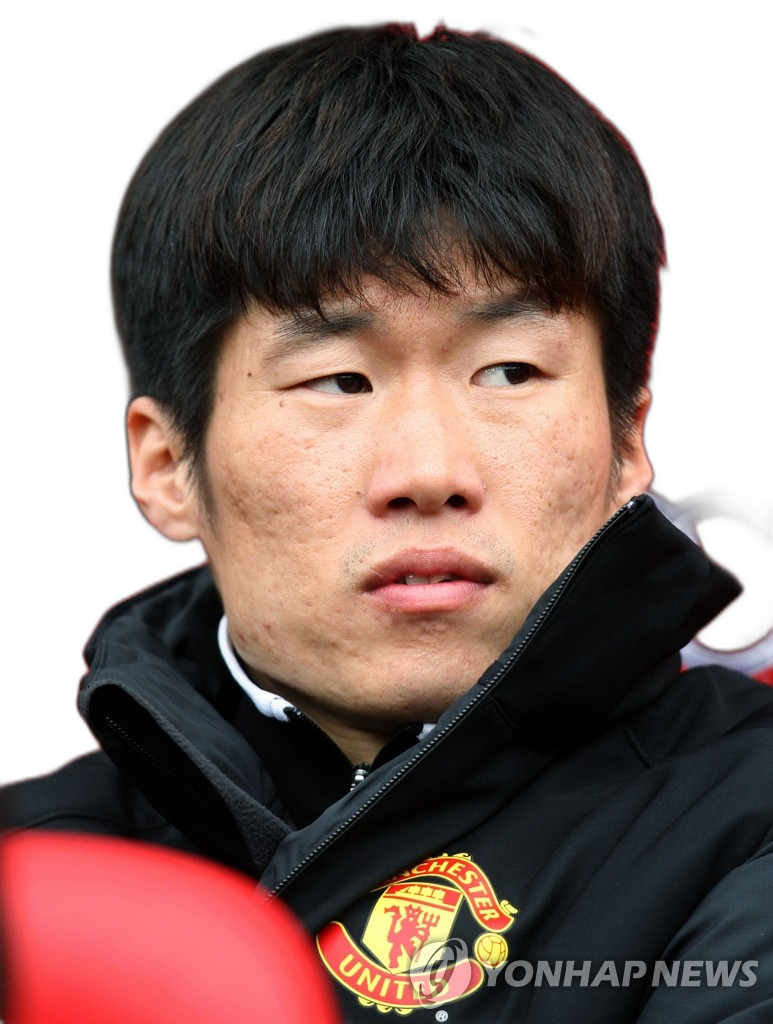
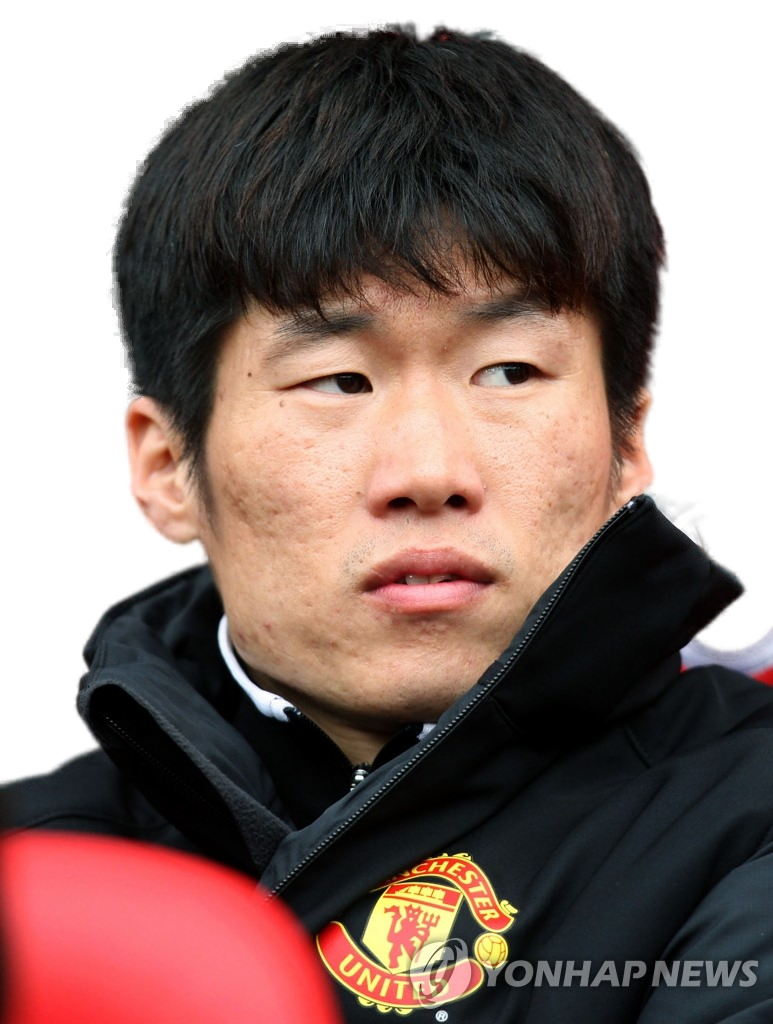
[FEAT] background blending with laplcain pyramid

diff --git a/remove_background.py b/remove_background.py
@@ -3,27 +3,80 @@ import cv2
 import numpy as np
 from rembg import remove
 
-def fill_background(image : np.ndarray, background: np.ndarray, mask: np.ndarray, mask_threshold : int) -> np.ndarray:
+def naive_interpolation(image : np.ndarray, background: np.ndarray, mask: np.ndarray) -> np.ndarray:
     background_resized = cv2.resize(background, (image.shape[1], image.shape[0]))
 
     result = image.copy()
 
     # interpolate between image and background; weight is given from mask
-    for x, y in np.argwhere(mask <= mask_threshold):
+    for x, y in np.ndindex(mask.shape):
         image_weight = mask[x, y] / 255 # value between 0 and 1
         result[x, y, :] = (1-image_weight) * background_resized[x, y, :] + image_weight * image[x, y, :]
     
     return result
 
 
+def pyramid_blending(image : np.ndarray, background: np.ndarray, mask: np.ndarray, pyr_levels : int) -> np.ndarray:
+    # resize background to image size
+    background_resized = cv2.resize(background, (image.shape[1], image.shape[0]))
+
+
+    # Gaussian pyramid for image
+    G = image.copy()
+    G_im = [G] # length 7: original image + 6 levels
+    for _ in range(pyr_levels):
+        G = cv2.pyrDown(G)
+        G_im.append(G)
+
+    # Gaussian pyramid for background
+    G = background_resized.copy()
+    G_bg = [G]
+    for _ in range(pyr_levels):
+        G = cv2.pyrDown(G)
+        G_bg.append(G)
+
+    # laplacian pyramid for image
+    L_im = [] # length 7; last level is just the last element of G_im
+    for i in range(pyr_levels):
+        l_im = cv2.subtract(G_im[i], cv2.pyrUp(G_im[i+1], dstsize=(G_im[i].shape[1], G_im[i].shape[0])))
+        L_im.append(l_im)
+    L_im.append(G_im[-1])
+
+    # laplacian pyramid for background
+    L_bg = []
+    for i in range(pyr_levels):
+        l_bg = cv2.subtract(G_bg[i], cv2.pyrUp(G_bg[i+1], dstsize=(G_bg[i].shape[1], G_bg[i].shape[0])))
+        L_bg.append(l_bg)
+    L_bg.append(G_bg[-1])
+
+    # combine two laplacian pyramids using mask from rembg as weight
+    L_blend = []
+    for l_im, l_bg in zip(L_im, L_bg):
+        mask_resized = cv2.resize(mask, (l_im.shape[1], l_im.shape[0]), interpolation=cv2.INTER_AREA)
+        l_blend = np.zeros_like(l_im)
+
+        for x, y in np.ndindex(mask_resized.shape):
+            image_weight = mask_resized[x, y] / 255 # value between 0 and 1
+            l_blend[x, y, :] = (1-image_weight) * l_bg[x, y, :] + image_weight * l_im[x, y, :]
+        
+        L_blend.append(l_blend)
+
+    # reconstruct image (start from smallest layer)
+    blended = L_blend[-1]
+    for i in range(len(L_blend)-2, -1, -1):
+        blended = cv2.pyrUp(blended, dstsize=(L_blend[i].shape[1], L_blend[i].shape[0]))
+        blended = cv2.add(blended, L_blend[i])
+
+    return blended
+
 def main():
     image_path = sys.argv[1]
     background_path = sys.argv[2] if len(sys.argv) > 2 else None
-    mask_threshold = int(sys.argv[3]) if len(sys.argv) > 3 else 255 # mask.max() = 255
+    pyr_levels = int(sys.argv[3]) if len(sys.argv) > 3 else 6
     image = cv2.imread(image_path)
 
     # remove background
-    result = remove(image)   
+    result = remove(image, alpha_matting=True, alpha_matting_foreground_threshold=250, alpha_matting_background_threshold=60 ,alpha_matting_erode_size=10)   
     cv2.imwrite("result/background_removed.png", result)
 
     # fill background
@@ -32,9 +85,10 @@ def main():
         background = cv2.imread(background_path)
         mask = remove(image, only_mask=True)
 
-        result = fill_background(image, background, mask, mask_threshold)
+        # result = naive_interpolation(image, background, mask)
+        result = pyramid_blending(image, background, mask, pyr_levels)
 
-        cv2.imwrite(f"result/background_filled_mask_{mask_threshold}.png", result)
+        cv2.imwrite(f"result/background_filled_pyramid_{pyr_levels}.png", result)
 
 if __name__ == '__main__':
     main()
